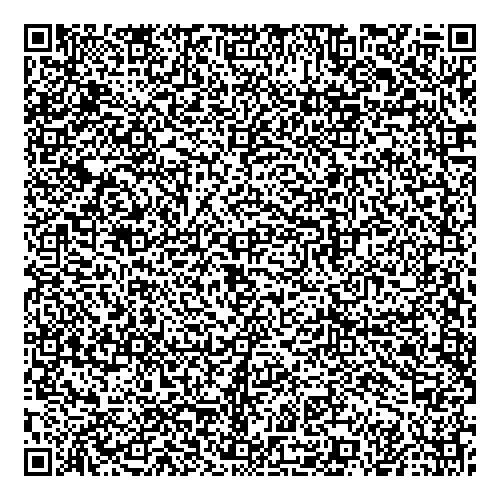
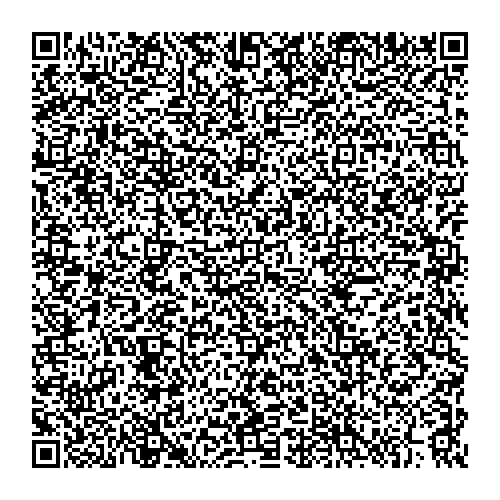
QRCODE: remove spaces between operators

diff --git a/web/qrcode/src/test/java/net/sourceforge/smallbasic/TestQrEncoder.java b/web/qrcode/src/test/java/net/sourceforge/smallbasic/TestQrEncoder.java
@@ -22,6 +22,15 @@ public class TestQrEncoder {
   }
 
   @Test
+  public void testEqualsCleanup() {
+    QrEncoder inst = new QrEncoder();
+    String fileText = "a = b if a == b then blah if a < b a + b a != b a += b";
+    String expectedText = "a=b if a==b then blah if a<b a+b a!=b a+=b";
+    String result = inst.cleanupCode(fileText);
+    Assert.assertEquals(expectedText, result);
+  }
+
+  @Test
   public void testZipBase64() throws IOException {
     QrEncoder inst = new QrEncoder();
     String fileText = "? 'hello'\n? 10";

diff --git a/web/qrcode/src/main/java/net/sourceforge/smallbasic/QrEncoder.java b/web/qrcode/src/main/java/net/sourceforge/smallbasic/QrEncoder.java
@@ -68,7 +68,11 @@ public class QrEncoder {
 
     // remove empty blank lines
     result = result.replaceAll("[\\r\\n]{2,}", "\n");
-    
+
+    // remove spaces between operators
+    result = result.replaceAll("(?m)\\s*([=!<>+-\\,])\\s*", "$1");
+    result = result.replaceAll("(?m)\\s*(\\*)\\s*", "$1");
+
     return result.trim();
   }
   
